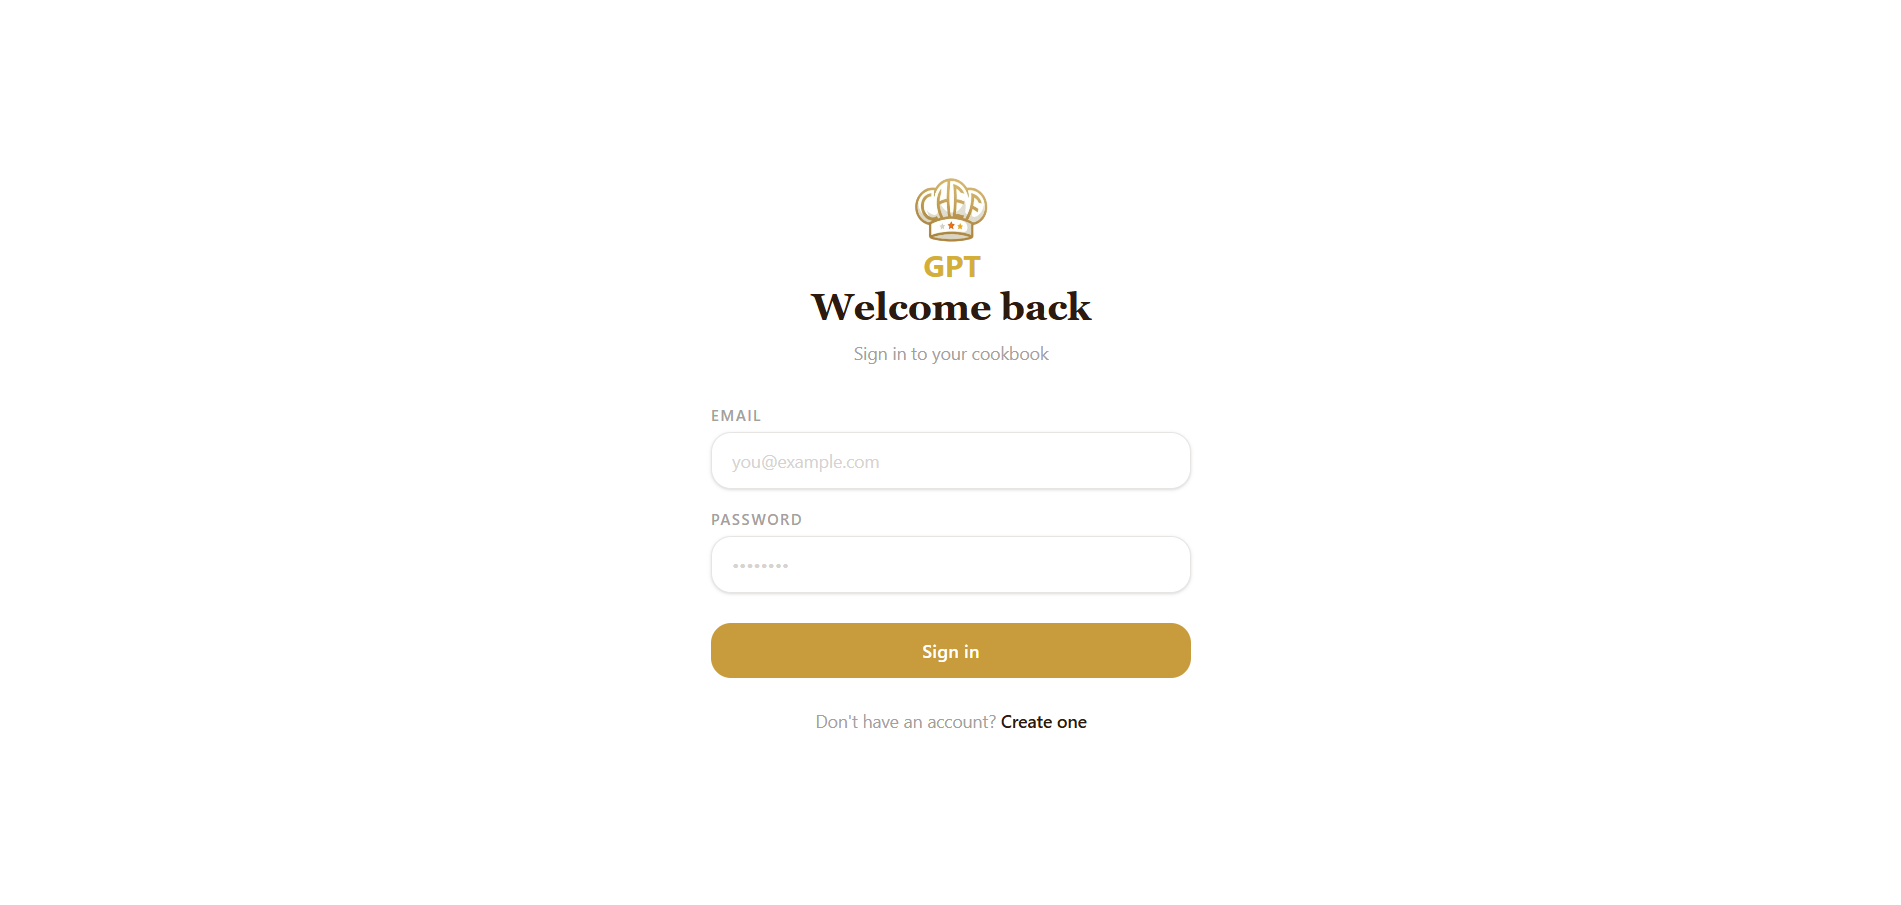
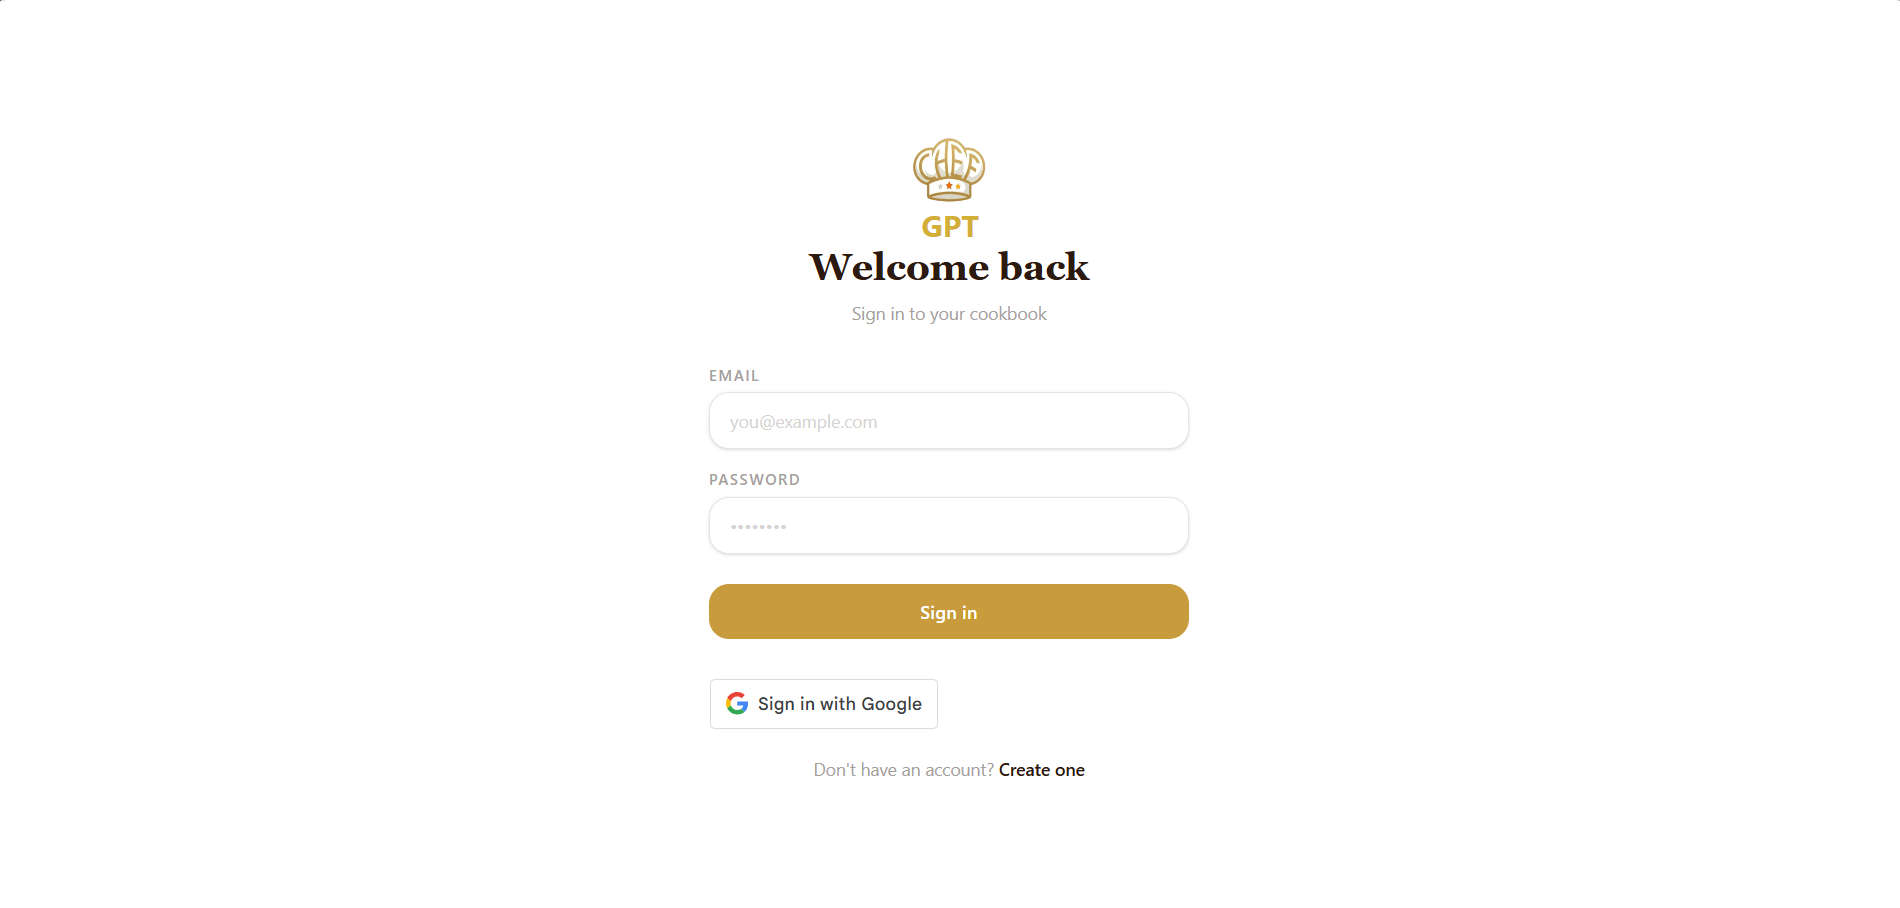
Update Readme

diff --git a/README.md b/README.md
@@ -150,7 +150,7 @@ Users must log in before accessing these features.
 
 ### Recipe Detail Page
 
-![register image](./screenshots/recipedetail.png)
+![register image](./screenshots/RecipeDetail.png)
 
 ---
 